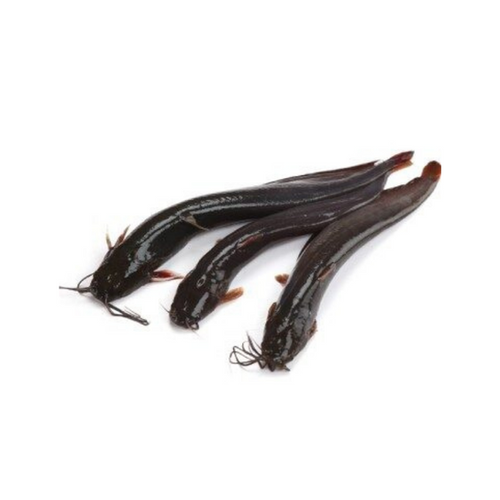
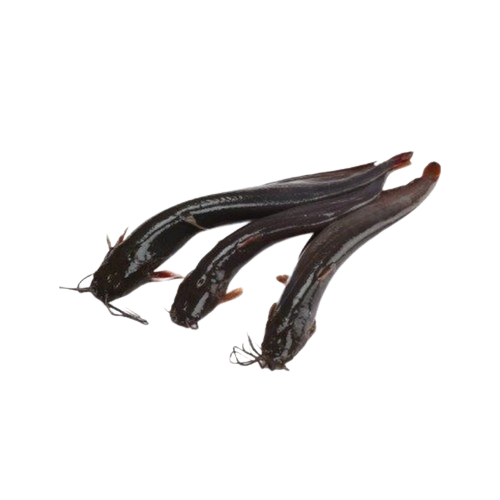
done bacground image remover

diff --git a/lib/features/home/presentation/screens/harvest_screen.dart b/lib/features/home/presentation/screens/harvest_screen.dart
@@ -21,15 +21,15 @@ class _HarvestScreenState extends State<HarvestScreen> {
   ];
 
   List<String> images = [
-    "assets/images/fosol/sobji.jpg",
+    "assets/images/fosol/sobji.png",
     "assets/images/fosol/dhan.png",
-    "assets/images/fosol/gom.jpg",
-    "assets/images/fosol/vutta.jpg",
-    "assets/images/fosol/job.jpg",
-    "assets/images/fosol/sorisa.jpg",
-    "assets/images/fosol/pat.jpg",
-    "assets/images/fosol/akh.jpg",
-    "assets/images/fosol/mosur.jpg",
+    "assets/images/fosol/gom.png",
+    "assets/images/fosol/vutta.png",
+    "assets/images/fosol/job.png",
+    "assets/images/fosol/sorisa.png",
+    "assets/images/fosol/pat.png",
+    "assets/images/fosol/akh.png",
+    "assets/images/fosol/mosur.png",
   ];
 
   final List<String> selectedItemList = [];
@@ -37,7 +37,11 @@ class _HarvestScreenState extends State<HarvestScreen> {
   @override
   Widget build(BuildContext context) {
     return Scaffold(
-      appBar: AppBar(title: const Text("ফসল"), centerTitle: true),
+      appBar: AppBar(
+        title: const Text("ফসল"),
+        centerTitle: true,
+        backgroundColor: Color(0xFF12B981),
+      ),
       body: Padding(
         padding: const EdgeInsets.all(12.0),
         child: GridView.builder(
@@ -63,10 +67,10 @@ class _HarvestScreenState extends State<HarvestScreen> {
               },
               child: Container(
                 decoration: BoxDecoration(
-                  color: isSelected ? Colors.green : Colors.white,
+                  color: isSelected ? Color(0xFF12B981) : Colors.white,
                   borderRadius: BorderRadius.circular(12),
                   border: Border.all(
-                    color: isSelected ? Colors.green : Colors.green,
+                    color: isSelected ? Color(0xFF12B981) : Color(0xFF12B981),
                   ),
                 ),
                 child: Column(

diff --git a/lib/features/home/presentation/screens/chicken_duck_screen.dart b/lib/features/home/presentation/screens/chicken_duck_screen.dart
@@ -20,14 +20,14 @@ class _ChickenDuckScreenState extends State<ChickenDuckScreen> {
   ];
 
   List<String> images = [
-    "assets/images/hasmurgi/leyar.jpg",
-    "assets/images/hasmurgi/broiler.jpg",
-    "assets/images/hasmurgi/desimurgi.jpg",
-    "assets/images/hasmurgi/sonali.jpg",
-    "assets/images/hasmurgi/koyel.jpg",
-    "assets/images/hasmurgi/has.jpg",
-    "assets/images/hasmurgi/tarki.jpg",
-    "assets/images/hasmurgi/kobutor.jpg",
+    "assets/images/hasmurgi/leyar.png",
+    "assets/images/hasmurgi/broiler.png",
+    "assets/images/hasmurgi/desimurgi.png",
+    "assets/images/hasmurgi/sonali.png",
+    "assets/images/hasmurgi/koyel.png",
+    "assets/images/hasmurgi/has.png",
+    "assets/images/hasmurgi/tarki.png",
+    "assets/images/hasmurgi/kobutor.png",
   ];
 
   // Removed selectedItemCheckColor since we check it dynamically per item
@@ -95,23 +95,3 @@ class _ChickenDuckScreenState extends State<ChickenDuckScreen> {
     );
   }
 }
-
-
-
-// Given an integer array arr, return all the unique pairs [arr[i], 
-// arr[j]] such that i != j and arr[i] + arr[j] == 0.
-
-// Note: The pairs must be returned in sorted order,
-//  the solution array should also be sorted, and the answer must
-//   not contain any duplicate pairs.
-
-// Examples:
-
-// Input: arr = [-1, 0, 1, 2, -1, -4]
-// Output: [[-1, 1]]
-// Explanation: arr[0] + arr[2] = (-1)+ 1 = 0.
-// arr[2] + arr[4] = 1 + (-1) = 0.
-// The distinct pair are [-1,1].
-// Input: arr = [6, 1, 8, 0, 4, -9, -1, -10, -6, -5]
-// Output: [[-6, 6],[-1, 1]]
-// Explanation: The distinct pairs are [-1, 1] and [-6, 6].

diff --git a/lib/features/home/presentation/screens/vegetables_screen.dart b/lib/features/home/presentation/screens/vegetables_screen.dart
@@ -30,24 +30,24 @@ class _VegetableScreenState extends State<VegetableScreen> {
   ];
 
   List<String> images = [
-    "assets/images/sobji/alu.jpg",
-    "assets/images/sobji/tomatoo.jpg",
-    "assets/images/sobji/begun.jpg",
-    "assets/images/sobji/mula.jpg",
-    "assets/images/sobji/lau.jpg",
-    "assets/images/sobji/kumra.jpg",
-    "assets/images/sobji/shim.jpg",
-    "assets/images/sobji/peyaj.jpg",
-    "assets/images/sobji/rosun.jpg",
-    "assets/images/sobji/morich.jpg",
-    "assets/images/sobji/dheros.jpg",
-    "assets/images/sobji/palongsak.jpg",
+    "assets/images/sobji/alu.png",
+    "assets/images/sobji/tomatoo.png",
+    "assets/images/sobji/begun.png",
+    "assets/images/sobji/mula.png",
+    "assets/images/sobji/lau.png",
+    "assets/images/sobji/kumra.png",
+    "assets/images/sobji/shim.png",
+    "assets/images/sobji/peyaj.png",
+    "assets/images/sobji/rosun.png",
+    "assets/images/sobji/morich.png",
+    "assets/images/sobji/dheros.png",
+    "assets/images/sobji/palongsak.png",
     "assets/images/sobji/lalsak.png",
-    "assets/images/sobji/puisak.jpg",
-    "assets/images/sobji/korla.jpg",
+    "assets/images/sobji/puisak.png",
+    "assets/images/sobji/korla.png",
     "assets/images/sobji/jhinge.png",
-    "assets/images/sobji/cicinga.jpg",
-    "assets/images/sobji/alu.jpg",
+    "assets/images/sobji/cicinga.png",
+    "assets/images/sobji/alu.png",
   ];
 
   // Removed selectedItemCheckColor since we check it dynamically per item

diff --git a/lib/features/home/presentation/screens/fish_screen.dart b/lib/features/home/presentation/screens/fish_screen.dart
@@ -24,18 +24,18 @@ class _FishScreenState extends State<FishScreen> {
   ];
 
   List<String> images = [
-    "assets/images/motso/rui.jpg",
-    "assets/images/motso/katla.jpg",
-    "assets/images/motso/mrigel.jpg",
-    "assets/images/motso/telapiya.jpg",
-    "assets/images/motso/pangas.jpg",
-    "assets/images/motso/silvarcrap.jpg",
-    "assets/images/motso/grasscrap.jpg",
-    "assets/images/motso/chinri.jpg",
-    "assets/images/motso/ilish.jpg",
+    "assets/images/motso/rui.png",
+    "assets/images/motso/katla.png",
+    "assets/images/motso/mrigel.png",
+    "assets/images/motso/telapiya.png",
+    "assets/images/motso/pangas.png",
+    "assets/images/motso/silvarcrap.png",
+    "assets/images/motso/grasscrap.png",
+    "assets/images/motso/chinri.png",
+    "assets/images/motso/ilish.png",
     "assets/images/motso/sing.png",
-    "assets/images/motso/magur.jpg",
-    "assets/images/motso/magur.jpg",
+    "assets/images/motso/magur.png",
+    "assets/images/motso/magur.png",
   ];
 
   // Removed selectedItemCheckColor since we check it dynamically per item

diff --git a/lib/features/home/presentation/screens/petanimal_screen.dart b/lib/features/home/presentation/screens/petanimal_screen.dart
@@ -1,4 +1,3 @@
-import 'package:agroxpert/app/color.dart';
 import 'package:flutter/material.dart';
 
 class PetAnimalScreen extends StatefulWidget {
@@ -21,12 +20,12 @@ class _PetAnimalScreenState extends State<PetAnimalScreen> {
 
   List<String> images = [
     "assets/images/posu/gorudugdho.png",
-    "assets/images/posu/gorugorumota.jpg",
+    "assets/images/posu/gorugorumota.png",
     "assets/images/posu/chagoldesi.png",
-    "assets/images/posu/chagolhaibrid.jpg",
-    "assets/images/posu/mohis.jpg",
-    "assets/images/posu/vera.jpg",
-    "assets/images/posu/khorgos.jpg",
+    "assets/images/posu/chagolhaibrid.png",
+    "assets/images/posu/mohis.png",
+    "assets/images/posu/vera.png",
+    "assets/images/posu/khorgos.png",
   ];
 
   // Removed selectedItemCheckColor since we check it dynamically per item

diff --git a/lib/features/home/presentation/screens/egg_screen.dart b/lib/features/home/presentation/screens/egg_screen.dart
@@ -20,12 +20,12 @@ class _EggScreenState extends State<EggScreen> {
 
   List<String> images = [
     "assets/images/dim/farmerlaldim.png",
-    "assets/images/dim/farmerdimsada.jpg",
-    "assets/images/dim/desimurgirdim.jpg",
-    "assets/images/dim/haserdim.jpg",
-    "assets/images/dim/koyelerdim.jpg",
-    "assets/images/dim/organikdim.jpg",
-    "assets/images/dim/organikdim.jpg",
+    "assets/images/dim/farmerdimsada.png",
+    "assets/images/dim/desimurgirdim.png",
+    "assets/images/dim/haserdim.png",
+    "assets/images/dim/koyelerdim.png",
+    "assets/images/dim/organikdim.png",
+    "assets/images/dim/organikdim.png",
   ];
 
   // Removed selectedItemCheckColor since we check it dynamically per item

diff --git a/lib/main.dart b/lib/main.dart
@@ -1,5 +1,4 @@
 import 'package:agroxpert/app/app.dart';
-
 import 'package:flutter/material.dart';
 
 void main() {
